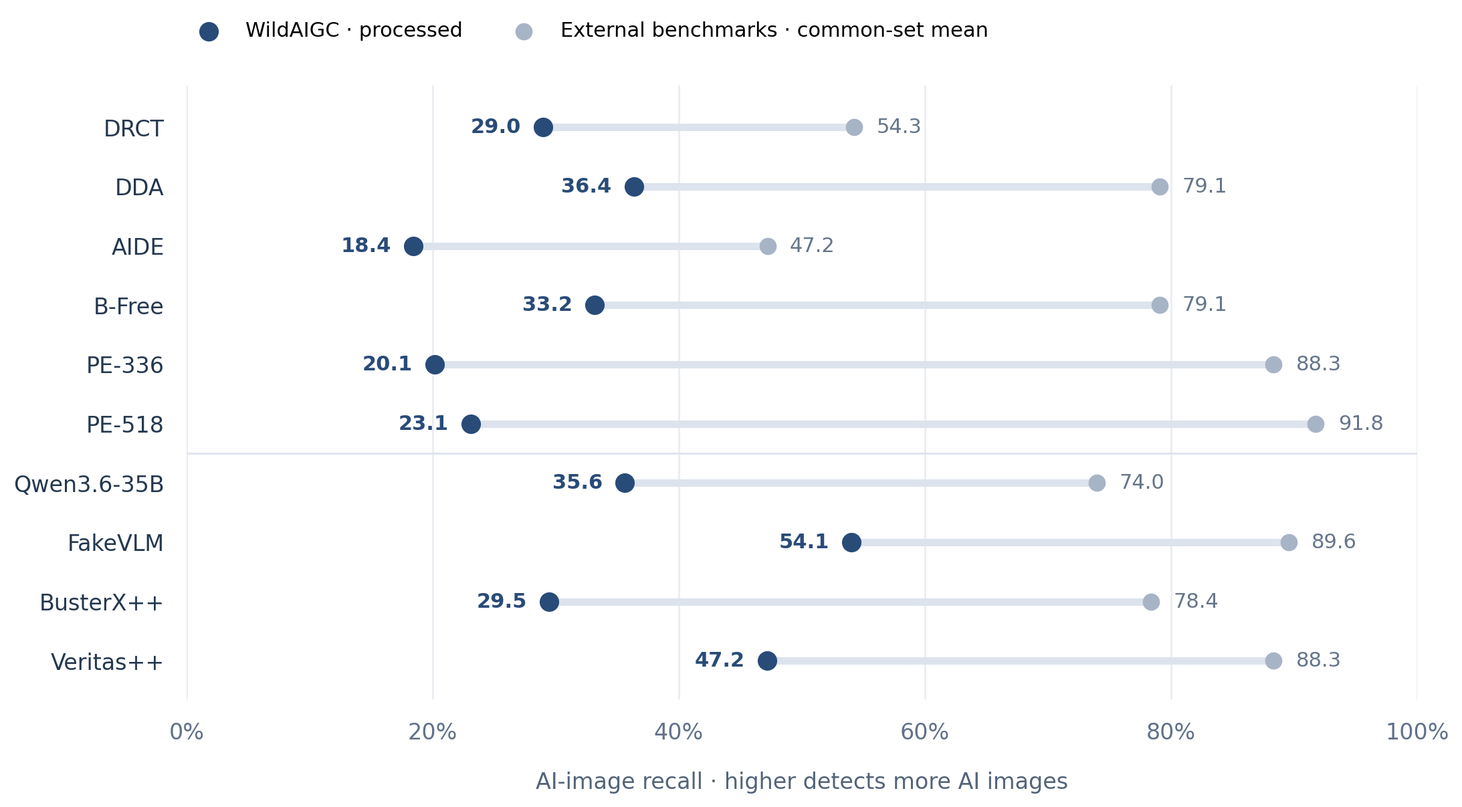
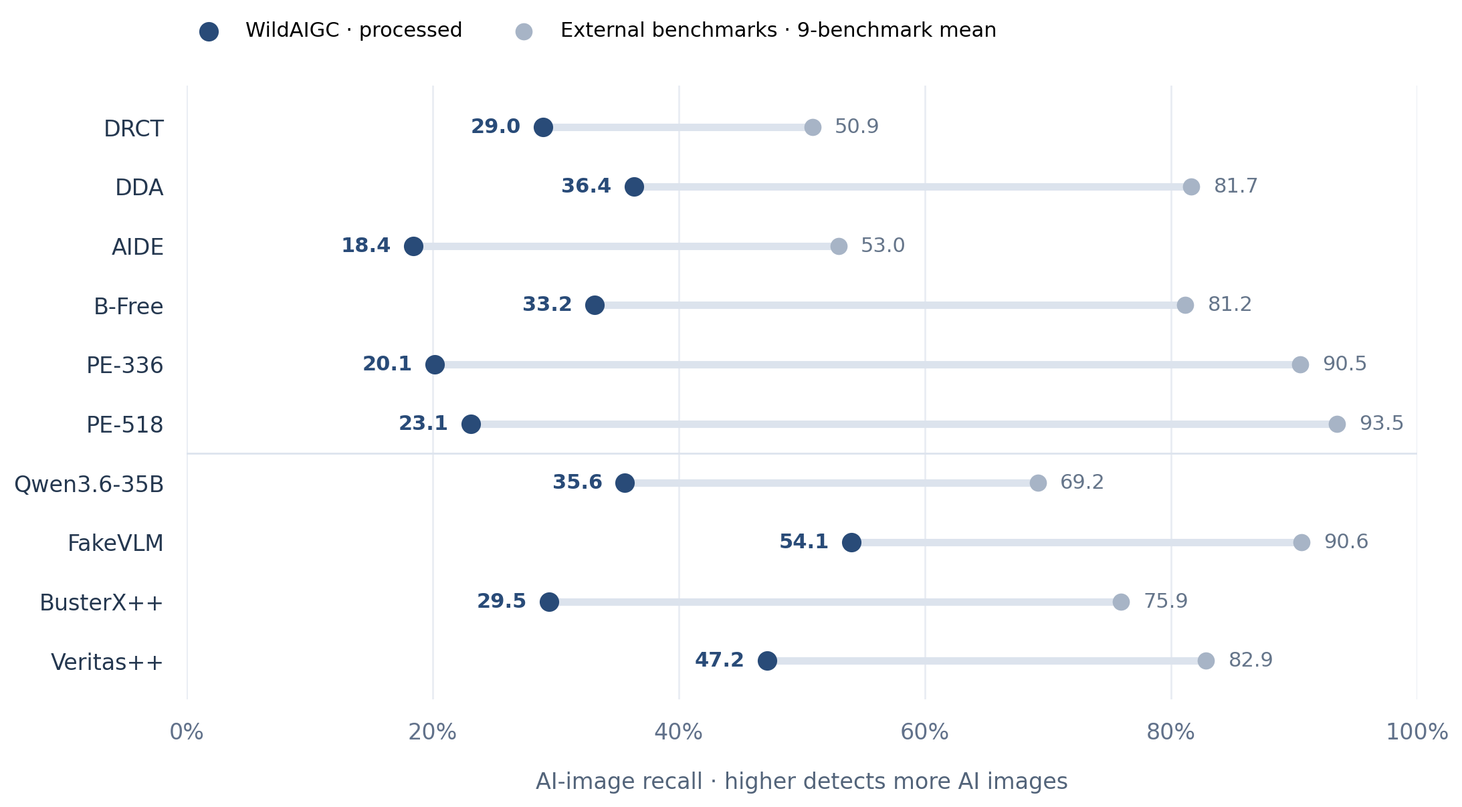
Complete synthbuster and UnivFD results and refresh nine-benchmark comparisons

diff --git a/index.html b/index.html
@@ -2,5 +2,5 @@
 <html lang="en"><head><meta charset="utf-8"><meta name="viewport" content="width=device-width,initial-scale=1"><meta name="description" content="WildAIGC-Bench: 407 human-reviewed AI-generated and edited images from real-world online circulation, with evidence-linked metadata, raw and cropped versions, and detector evaluations."><meta name="theme-color" content="#344b70"><title>WildAIGC-Bench · A Hard In-the-Wild AIGC Detection Benchmark</title><link rel="stylesheet" href="./style.css?v=20261013f"><script src="./app.js?v=20261013f" defer></script></head><body>
 <a class="skip-link" href="#overview">Skip to content</a>
 <header class="nav"><a class="brand" href="#top"><span class="brand-mark" aria-hidden="true">W<span>AI</span></span>WildAIGC-Bench</a><nav aria-label="Main navigation"><a href="#dataset">Examples</a><a href="#evaluation">Results</a><a href="#construction">Construction</a><a href="#statistics">Statistics</a><a class="nav-resource" href="#resources">Resources ↗</a></nav></header>
-<main id="top"><section class="hero"><div class="eyebrow"><span class="status-dot"></span> VERSION 1.0 · 407 HUMAN-REVIEWED IMAGES</div><h1>WildAIGC-Bench</h1><p class="hero-subtitle">An evidence-linked benchmark of AI-generated and edited images<br>documented in real online circulation.</p><p class="hero-copy">407 photographic-looking AI images collected from real online circulation. Reviewed by two people, with source evidence and paired raw / processed versions.</p><div class="actions"><a class="button primary" href="https://huggingface.co/datasets/yuzj1997yzj/WildAIGC-Bench" target="_blank" rel="noopener noreferrer">Dataset on Hugging Face ↗</a><a class="button" href="https://github.com/YuZijian/WildAIGC-Bench" target="_blank" rel="noopener noreferrer">GitHub ↗</a><button class="button disabled" disabled>Technical report <span>Coming soon</span></button></div><p class="release-status">Dataset publicly available · Technical report in preparation</p></section><section id="overview" class="section overview concise-overview"><div class="benchmark-highlights"><article><span class="highlight-index">REAL CIRCULATION</span><h3>Collected where images spread.</h3><p>News events and social-media claims, with source links for human verification.</p></article><article><span class="highlight-index">HUMAN CONSENSUS</span><h3>Two reviewers, every image.</h3><p>Evidence-based inclusion, without consulting general-purpose detector predictions.</p></article><article><span class="highlight-index">PAIRED VERSIONS</span><h3>Raw and processed.</h3><p>Acquired files and target-region crops. No resizing; unchanged images remain identical.</p></article></div></section><section class="section" id="dataset"><div class="section-label">01 / EXAMPLES</div><div class="section-heading"><h2>Real examples from online circulation.</h2><p>Processed examples from the collection. Detectors receive images alone; source links support human verification.</p></div><div class="gallery-toolbar"><p>Six illustrative examples · processed images · click to enlarge</p></div><div class="sample-grid"><article class="sample" data-sample="img_0fe24cc6e96245b8"><button class="sample-open" data-open="img_0fe24cc6e96245b8" aria-label="View Song Yuqi retail poster in full size"><img src="./assets/img_0fe24cc6e96245b8-processed.png" alt="Human-labeled AIGC sample: Song Yuqi retail poster" loading="lazy"><span class="zoom-hint">View larger ↗</span></button><div class="sample-copy"><span class="tag">Poster / local-edit claim</span><h3>Song Yuqi retail poster</h3><div class="sample-footer"><a href="https://www.4anet.com/p/01m4csjyqm986pe0gzfwxsfa9d" target="_blank" rel="noopener noreferrer">Source &amp; context ↗</a><span>0fe24cc6</span></div></div></article><article class="sample" data-sample="img_1b3026fd893bf218"><button class="sample-open" data-open="img_1b3026fd893bf218" aria-label="View Courier parcels and a television box in full size"><img src="./assets/img_1b3026fd893bf218-raw.jpg" alt="Human-labeled AIGC sample: Courier parcels and a television box" loading="lazy"><span class="zoom-hint">View larger ↗</span></button><div class="sample-copy"><span class="tag">Everyday scene</span><h3>Courier parcels and a television box</h3><div class="sample-footer"><a href="https://www.creativebloq.com/ai/ai-art/can-you-spot-all-the-clues-that-prove-this-ai-photo-isnt-real" target="_blank" rel="noopener noreferrer">Source &amp; context ↗</a><span>1b3026fd</span></div></div></article><article class="sample" data-sample="img_2bb3885c6b59817a"><button class="sample-open" data-open="img_2bb3885c6b59817a" aria-label="View A locally edited football spectator in full size"><img src="./assets/img_2bb3885c6b59817a-raw.jpg" alt="Human-labeled AIGC sample: A locally edited football spectator" loading="lazy"><span class="zoom-hint">View larger ↗</span></button><div class="sample-copy"><span class="tag">Face replacement</span><h3>A locally edited football spectator</h3><div class="sample-footer"><a href="https://leadstories.com/hoax-alert/2026/06/fact-check-image-altered-with-openai-tools-made-german-soccer-fan-in-the-stands-look-like-adolf-hitler.html" target="_blank" rel="noopener noreferrer">Source &amp; context ↗</a><span>2bb3885c</span></div></div></article><article class="sample" data-sample="img_6cfd077cd16360a7"><button class="sample-open" data-open="img_6cfd077cd16360a7" aria-label="View A fabricated Ronaldo wedding scene in full size"><img src="./assets/img_6cfd077cd16360a7-raw.jpg" alt="Human-labeled AIGC sample: A fabricated Ronaldo wedding scene" loading="lazy"><span class="zoom-hint">View larger ↗</span></button><div class="sample-copy"><span class="tag">Celebrity event</span><h3>A fabricated Ronaldo wedding scene</h3><div class="sample-footer"><a href="https://crhoy.com/entretenimiento/no-caiga-fotos-que-circulan-de-la-boda-de-cristiano-y-georgina-son-ia/" target="_blank" rel="noopener noreferrer">Source &amp; context ↗</a><span>6cfd077c</span></div></div></article><article class="sample" data-sample="img_2662f72eae79741a"><button class="sample-open" data-open="img_2662f72eae79741a" aria-label="View Kenyan recruits in a slogan formation in full size"><img src="./assets/img_2662f72eae79741a-raw.jpg" alt="Human-labeled AIGC sample: Kenyan recruits in a slogan formation" loading="lazy"><span class="zoom-hint">View larger ↗</span></button><div class="sample-copy"><span class="tag">Public-event claim</span><h3>Kenyan recruits in a slogan formation</h3><div class="sample-footer"><a href="https://factcheck.afp.com/doc.afp.com.C79679F" target="_blank" rel="noopener noreferrer">Source &amp; context ↗</a><span>2662f72e</span></div></div></article><article class="sample" data-sample="img_eef641f81db6498b"><button class="sample-open" data-open="img_eef641f81db6498b" aria-label="View A purported Beijing drone collection queue in full size"><img src="./assets/img_eef641f81db6498b-raw.jpg" alt="Human-labeled AIGC sample: A purported Beijing drone collection queue" loading="lazy"><span class="zoom-hint">View larger ↗</span></button><div class="sample-copy"><span class="tag">Urban scene</span><h3>A purported Beijing drone collection queue</h3><div class="sample-footer"><a href="https://factcheck.afp.com/doc.afp.com.C98N6CQ" target="_blank" rel="noopener noreferrer">Source &amp; context ↗</a><span>eef641f8</span></div></div></article></div><p class="caption">Both versions are available in the large-image viewer. Five of these examples are unchanged originals; raw and processed are identical. The retail poster has a manually cropped processed version. Labels reflect human release decisions; source evidence and its limitations remain documented.</p><div class="version-grid"><article class="version raw"><span class="tag">RAW</span><h3>The acquired online file.</h3><p>Original collected bytes, including any existing comments, platform interfaces, identifiers, captions or generation marks. An acquired online file is not necessarily the generator’s earliest output.</p></article><article class="version processed"><span class="tag">PROCESSED</span><h3>The region under examination.</h3><p>Human-selected rectangular crops focus on the target image and remove surrounding comments, generation watermarks, platform identifiers or other cues where cropping permits. No inpainting, enhancement or resizing.</p></article></div><div class="inline-note"><strong>All 407 images were manually checked for crop suitability.</strong> Target regions were cropped where needed; otherwise the original image was retained. Crops are pixel-exact regions from raw, saved losslessly. Uncropped raw and processed files are byte-identical. Some cues can remain; processed does not mean completely free of leakage.</div></section><section class="section" id="evaluation"><div class="section-label">02 / RESULTS</div><div class="section-heading"><h2>A revealing test for today’s detectors.</h2><p>Among the 10 evaluated configurations, the highest processed recall is <strong>54.05%</strong>. <strong>30 images</strong> are missed by all ten.</p></div><p class="small-note">Results reflect each model’s evaluated configuration and decision rule. Higher recall alone does not imply better overall detection performance; see the <a href="https://github.com/YuZijian/WildAIGC-Bench/blob/main/docs/detailed-results.md">external real-image FPR results</a>.</p><figure class="comparison-figure"><img src="./assets/recall_overview.svg" width="1260" height="620" alt="Per-method AI-image recall comparing the same seven external benchmarks’ mean with WildAIGC processed; all ten methods have lower recall on WildAIGC." loading="lazy"><figcaption>Same fake-class recall metric. External means use the same seven benchmarks for every method; these are different test distributions, not a causal estimate of propagation damage.</figcaption></figure><div class="results-heading"><h3>WildAIGC-Bench · 407 AI images</h3></div><div class="table-scroll" tabindex="0"><table id="wildTable"><thead><tr><th scope="col">Method</th><th scope="col">Raw Recall</th><th scope="col">Processed Recall</th></tr></thead><tbody><tr class="method-group-row"><th colspan="3" scope="rowgroup"><span class="method-group-label">Classification models</span></th></tr><tr><th scope="row">DRCT</th><td>0.2948</td><td>0.2899</td></tr><tr><th scope="row">DDA</th><td>0.3538</td><td>0.3636</td></tr><tr><th scope="row">AIDE</th><td>0.1450</td><td>0.1843</td></tr><tr><th scope="row">B-Free</th><td>0.3366</td><td>0.3317</td></tr><tr><th scope="row">PE-336</th><td>0.1941</td><td>0.2015</td></tr><tr><th scope="row">PE-518</th><td>0.2236</td><td>0.2310</td></tr><tr class="method-group-row"><th colspan="3" scope="rowgroup"><span class="method-group-label">Multimodal large language models</span></th></tr><tr><th scope="row">Qwen3.6-35B</th><td>0.3808</td><td>0.3563</td></tr><tr><th scope="row">FakeVLM</th><td>0.5283</td><td>0.5405</td></tr><tr><th scope="row">BusterX++</th><td>0.2973</td><td>0.2948</td></tr><tr><th scope="row">Veritas++</th><td>0.4644</td><td>0.4717</td></tr></tbody></table></div><p class="small-note">Recall is the fraction of AI images detected; unknowns count as misses. This positive-only set does not measure real-image false positives.</p><p class="small-note"><strong>Our PE baselines:</strong> PE-Core-Large (Perception Encoder) + classification head, trained by our team at 336 × 336 and 518 × 518 input resolution. Details will appear in the technical report.</p><details class="supplement"><summary>Explore cross-benchmark recall</summary><div class="table-scroll" tabindex="0"><table id="crossTable"><thead><tr class="benchmark-groups"><th scope="col" rowspan="2" class="method-heading">Method</th><th scope="colgroup" colspan="3" class="benchmark-group">Standard benchmarks</th><th scope="colgroup" colspan="6" class="benchmark-group group-start">In-the-Wild benchmarks</th><th scope="colgroup" colspan="1" class="benchmark-group group-start own-benchmark">WildAIGC<br><span>In-the-Wild · ours</span></th><th scope="col" rowspan="2" class="macro-column">Common-set mean<br><span>7 benchmarks ↑</span></th></tr><tr><th scope="col">EvalGen</th><th scope="col">synthbuster</th><th scope="col">UnivFD</th><th class="group-start" scope="col">AIGIBench</th><th scope="col">Chameleon</th><th scope="col">SynthWildx</th><th scope="col">WildRF</th><th scope="col">RRDataset</th><th scope="col">ITW-SM</th><th class="group-start own-benchmark" scope="col">WildAIGC<br>processed</th></tr></thead><tbody><tr class="method-group-row"><th colspan="12" scope="rowgroup"><span class="method-group-label">Classification models</span></th></tr><tr><th scope="row">DRCT</th><td>0.5093</td><td>0.5593</td><td>0.2196</td><td>0.5650</td><td>0.5818</td><td>0.5975</td><td>0.5838</td><td>0.3627</td><td>0.5982</td><td>0.2899</td><td class="macro-column">0.5426</td></tr><tr><th scope="row">DDA</th><td>0.9685</td><td>0.9757</td><td>0.8359</td><td>0.7445</td><td>0.7078</td><td>0.9291</td><td>0.8724</td><td>0.4700</td><td>0.8454</td><td>0.3636</td><td class="macro-column">0.7911</td></tr><tr><th scope="row">AIDE</th><td>0.5626</td><td>0.6527</td><td>0.8101</td><td>0.7090</td><td>0.3398</td><td>0.4874</td><td>0.5514</td><td>0.2238</td><td>0.4308</td><td>0.1843</td><td class="macro-column">0.4721</td></tr><tr><th scope="row">B-Free</th><td>0.9128</td><td>0.9423</td><td>0.8266</td><td>0.7189</td><td>0.6201</td><td>0.9852</td><td>0.9319</td><td>0.4786</td><td>0.8886</td><td>0.3317</td><td class="macro-column">0.7909</td></tr><tr><th scope="row">PE-336</th><td>0.9996</td><td>0.9653</td><td>0.9945</td><td>0.9700</td><td>0.7606</td><td>0.9062</td><td>0.9654</td><td>0.7797</td><td>0.8028</td><td>0.2015</td><td class="macro-column">0.8835</td></tr><tr><th scope="row">PE-518</th><td>0.9997</td><td>0.9973</td><td>0.9942</td><td>0.9609</td><td>0.8216</td><td>0.9468</td><td>0.9881</td><td>0.8229</td><td>0.8840</td><td>0.2310</td><td class="macro-column">0.9177</td></tr><tr class="method-group-row"><th colspan="12" scope="rowgroup"><span class="method-group-label">Multimodal large language models</span></th></tr><tr><th scope="row">Qwen3.6-35B <sup>†</sup></th><td>0.8775</td><td>0.5157</td><td>0.5330</td><td>0.4605</td><td>0.5769</td><td>0.8656</td><td>0.9157</td><td>0.5510</td><td>0.9306</td><td>0.3563</td><td class="macro-column">0.7397</td></tr><tr><th scope="row">FakeVLM <sup>†</sup></th><td>0.9900</td><td>0.9587</td><td>0.9270</td><td>0.9409</td><td>0.9953</td><td>0.9490</td><td>0.9276</td><td>0.5870</td><td>0.8810</td><td>0.5405</td><td class="macro-column">0.8958</td></tr><tr><th scope="row">BusterX++ <sup>†</sup></th><td>0.9290</td><td></td><td></td><td>0.5465</td><td>0.6142</td><td>0.9313</td><td>0.9589</td><td>0.5640</td><td>0.9422</td><td>0.2948</td><td class="macro-column">0.7837</td></tr><tr><th scope="row">Veritas++ <sup>†</sup></th><td>0.9890</td><td></td><td></td><td>0.6977</td><td>0.9324</td><td>0.9321</td><td>0.9741</td><td>0.7050</td><td>0.9540</td><td>0.4717</td><td class="macro-column">0.8835</td></tr></tbody></table></div><p>Common-set mean: EvalGen, AIGIBench, Chameleon, SynthWildx, WildRF, RRDataset and ITW-SM, equally weighted. † Fixed subsets on large dimensions; full evaluation on smaller dimensions. Blank cells indicate unavailable results.</p></details><p class="detail-link"><a href="https://github.com/YuZijian/WildAIGC-Bench/blob/main/docs/evaluation.md">Evaluation protocol ↗</a> <span>·</span> <a href="https://github.com/YuZijian/WildAIGC-Bench/blob/main/docs/detailed-results.md">Additional results and crop analysis ↗</a></p></section><section class="section" id="construction"><div class="section-label">03 / CONSTRUCTION</div><div class="section-heading"><h2>From online circulation<br>to a curated benchmark.</h2><p>Both reviewers examine every image using its context and AI evidence. Only consensus cases are retained; detector outputs are not used for selection.</p></div><figure class="pipeline-figure"><img src="./assets/construction_illustrated.png" width="2172" height="724" alt="Illustrated workflow: discover online events, trace evidence, deduplicate, human review, and freeze a release with raw and processed files." loading="lazy"></figure><p class="detail-link"><a href="https://github.com/YuZijian/WildAIGC-Bench/blob/main/docs/dataset.md">Read the construction protocol ↗</a></p></section><section class="section" id="statistics"><div class="section-label">04 / DATA PROFILE</div><div class="section-heading"><h2>A closer look at the collection.</h2><p>407 images from recorded news and fact-check sources. A curated challenge set, not a representative sample of the entire internet.</p></div><div class="compact-stats"><figure><img src="./assets/resolution_distribution.svg" alt="Raw and processed resolution distributions for 407 images" loading="lazy"><figcaption>Image dimensions · raw and processed.</figcaption></figure><figure><img src="./assets/source_website_distribution.svg" alt="Recorded source website distribution" loading="lazy"><figcaption>Recorded report websites, not necessarily original social platforms.</figcaption></figure></div></section><section class="section" id="resources"><div class="section-label">05 / RESOURCES</div><div class="section-heading"><h2>Put your detector to the test.</h2><p>Data, documentation and the forthcoming technical report.</p></div><div class="resource-grid"><article><span class="resource-type">DATASET</span><h3>WildAIGC-Bench v1.0</h3><p>407 images with raw / processed versions, labels and source references.</p><a href="https://huggingface.co/datasets/yuzj1997yzj/WildAIGC-Bench" target="_blank" rel="noopener noreferrer">Hugging Face ↗</a><small>Publicly available</small></article><article><span class="resource-type">TECHNICAL REPORT</span><h3>Construction &amp; evaluation</h3><p>Full methodology, detector settings and analysis.</p><span class="pending">In preparation</span></article><article><span class="resource-type">GITHUB</span><h3>Documentation &amp; results</h3><p>Usage instructions, evaluation protocol and additional results.</p><a href="https://github.com/YuZijian/WildAIGC-Bench" target="_blank" rel="noopener noreferrer">Explore the repository ↗</a></article></div><p class="small-note">Until the report is published, cite WildAIGC-Bench v1.0 and the exact dataset revision. Third-party image rights remain with their respective holders; see the dataset LICENSE. Corrections can be raised through repository issues.</p></section></main>
+<main id="top"><section class="hero"><div class="eyebrow"><span class="status-dot"></span> VERSION 1.0 · 407 HUMAN-REVIEWED IMAGES</div><h1>WildAIGC-Bench</h1><p class="hero-subtitle">An evidence-linked benchmark of AI-generated and edited images<br>documented in real online circulation.</p><p class="hero-copy">407 photographic-looking AI images collected from real online circulation. Reviewed by two people, with source evidence and paired raw / processed versions.</p><div class="actions"><a class="button primary" href="https://huggingface.co/datasets/yuzj1997yzj/WildAIGC-Bench" target="_blank" rel="noopener noreferrer">Dataset on Hugging Face ↗</a><a class="button" href="https://github.com/YuZijian/WildAIGC-Bench" target="_blank" rel="noopener noreferrer">GitHub ↗</a><button class="button disabled" disabled>Technical report <span>Coming soon</span></button></div><p class="release-status">Dataset publicly available · Technical report in preparation</p></section><section id="overview" class="section overview concise-overview"><div class="benchmark-highlights"><article><span class="highlight-index">REAL CIRCULATION</span><h3>Collected where images spread.</h3><p>News events and social-media claims, with source links for human verification.</p></article><article><span class="highlight-index">HUMAN CONSENSUS</span><h3>Two reviewers, every image.</h3><p>Evidence-based inclusion, without consulting general-purpose detector predictions.</p></article><article><span class="highlight-index">PAIRED VERSIONS</span><h3>Raw and processed.</h3><p>Acquired files and target-region crops. No resizing; unchanged images remain identical.</p></article></div></section><section class="section" id="dataset"><div class="section-label">01 / EXAMPLES</div><div class="section-heading"><h2>Real examples from online circulation.</h2><p>Processed examples from the collection. Detectors receive images alone; source links support human verification.</p></div><div class="gallery-toolbar"><p>Six illustrative examples · processed images · click to enlarge</p></div><div class="sample-grid"><article class="sample" data-sample="img_0fe24cc6e96245b8"><button class="sample-open" data-open="img_0fe24cc6e96245b8" aria-label="View Song Yuqi retail poster in full size"><img src="./assets/img_0fe24cc6e96245b8-processed.png" alt="Human-labeled AIGC sample: Song Yuqi retail poster" loading="lazy"><span class="zoom-hint">View larger ↗</span></button><div class="sample-copy"><span class="tag">Poster / local-edit claim</span><h3>Song Yuqi retail poster</h3><div class="sample-footer"><a href="https://www.4anet.com/p/01m4csjyqm986pe0gzfwxsfa9d" target="_blank" rel="noopener noreferrer">Source &amp; context ↗</a><span>0fe24cc6</span></div></div></article><article class="sample" data-sample="img_1b3026fd893bf218"><button class="sample-open" data-open="img_1b3026fd893bf218" aria-label="View Courier parcels and a television box in full size"><img src="./assets/img_1b3026fd893bf218-raw.jpg" alt="Human-labeled AIGC sample: Courier parcels and a television box" loading="lazy"><span class="zoom-hint">View larger ↗</span></button><div class="sample-copy"><span class="tag">Everyday scene</span><h3>Courier parcels and a television box</h3><div class="sample-footer"><a href="https://www.creativebloq.com/ai/ai-art/can-you-spot-all-the-clues-that-prove-this-ai-photo-isnt-real" target="_blank" rel="noopener noreferrer">Source &amp; context ↗</a><span>1b3026fd</span></div></div></article><article class="sample" data-sample="img_2bb3885c6b59817a"><button class="sample-open" data-open="img_2bb3885c6b59817a" aria-label="View A locally edited football spectator in full size"><img src="./assets/img_2bb3885c6b59817a-raw.jpg" alt="Human-labeled AIGC sample: A locally edited football spectator" loading="lazy"><span class="zoom-hint">View larger ↗</span></button><div class="sample-copy"><span class="tag">Face replacement</span><h3>A locally edited football spectator</h3><div class="sample-footer"><a href="https://leadstories.com/hoax-alert/2026/06/fact-check-image-altered-with-openai-tools-made-german-soccer-fan-in-the-stands-look-like-adolf-hitler.html" target="_blank" rel="noopener noreferrer">Source &amp; context ↗</a><span>2bb3885c</span></div></div></article><article class="sample" data-sample="img_6cfd077cd16360a7"><button class="sample-open" data-open="img_6cfd077cd16360a7" aria-label="View A fabricated Ronaldo wedding scene in full size"><img src="./assets/img_6cfd077cd16360a7-raw.jpg" alt="Human-labeled AIGC sample: A fabricated Ronaldo wedding scene" loading="lazy"><span class="zoom-hint">View larger ↗</span></button><div class="sample-copy"><span class="tag">Celebrity event</span><h3>A fabricated Ronaldo wedding scene</h3><div class="sample-footer"><a href="https://crhoy.com/entretenimiento/no-caiga-fotos-que-circulan-de-la-boda-de-cristiano-y-georgina-son-ia/" target="_blank" rel="noopener noreferrer">Source &amp; context ↗</a><span>6cfd077c</span></div></div></article><article class="sample" data-sample="img_2662f72eae79741a"><button class="sample-open" data-open="img_2662f72eae79741a" aria-label="View Kenyan recruits in a slogan formation in full size"><img src="./assets/img_2662f72eae79741a-raw.jpg" alt="Human-labeled AIGC sample: Kenyan recruits in a slogan formation" loading="lazy"><span class="zoom-hint">View larger ↗</span></button><div class="sample-copy"><span class="tag">Public-event claim</span><h3>Kenyan recruits in a slogan formation</h3><div class="sample-footer"><a href="https://factcheck.afp.com/doc.afp.com.C79679F" target="_blank" rel="noopener noreferrer">Source &amp; context ↗</a><span>2662f72e</span></div></div></article><article class="sample" data-sample="img_eef641f81db6498b"><button class="sample-open" data-open="img_eef641f81db6498b" aria-label="View A purported Beijing drone collection queue in full size"><img src="./assets/img_eef641f81db6498b-raw.jpg" alt="Human-labeled AIGC sample: A purported Beijing drone collection queue" loading="lazy"><span class="zoom-hint">View larger ↗</span></button><div class="sample-copy"><span class="tag">Urban scene</span><h3>A purported Beijing drone collection queue</h3><div class="sample-footer"><a href="https://factcheck.afp.com/doc.afp.com.C98N6CQ" target="_blank" rel="noopener noreferrer">Source &amp; context ↗</a><span>eef641f8</span></div></div></article></div><p class="caption">Both versions are available in the large-image viewer. Five of these examples are unchanged originals; raw and processed are identical. The retail poster has a manually cropped processed version. Labels reflect human release decisions; source evidence and its limitations remain documented.</p><div class="version-grid"><article class="version raw"><span class="tag">RAW</span><h3>The acquired online file.</h3><p>Original collected bytes, including any existing comments, platform interfaces, identifiers, captions or generation marks. An acquired online file is not necessarily the generator’s earliest output.</p></article><article class="version processed"><span class="tag">PROCESSED</span><h3>The region under examination.</h3><p>Human-selected rectangular crops focus on the target image and remove surrounding comments, generation watermarks, platform identifiers or other cues where cropping permits. No inpainting, enhancement or resizing.</p></article></div><div class="inline-note"><strong>All 407 images were manually checked for crop suitability.</strong> Target regions were cropped where needed; otherwise the original image was retained. Crops are pixel-exact regions from raw, saved losslessly. Uncropped raw and processed files are byte-identical. Some cues can remain; processed does not mean completely free of leakage.</div></section><section class="section" id="evaluation"><div class="section-label">02 / RESULTS</div><div class="section-heading"><h2>A revealing test for today’s detectors.</h2><p>Among the 10 evaluated configurations, the highest processed recall is <strong>54.05%</strong>. <strong>30 images</strong> are missed by all ten.</p></div><p class="small-note">Results reflect each model’s evaluated configuration and decision rule. Higher recall alone does not imply better overall detection performance; see the <a href="https://github.com/YuZijian/WildAIGC-Bench/blob/main/docs/detailed-results.md">external real-image FPR results</a>.</p><figure class="comparison-figure"><img src="./assets/recall_overview.svg" width="1260" height="620" alt="Per-method AI-image recall comparing the same nine external benchmarks’ mean with WildAIGC processed; all ten methods have lower recall on WildAIGC." loading="lazy"><figcaption>Same fake-class recall metric. External means use the same nine benchmarks for every method; these are different test distributions, not a causal estimate of propagation damage.</figcaption></figure><div class="results-heading"><h3>WildAIGC-Bench · 407 AI images</h3></div><div class="table-scroll" tabindex="0"><table id="wildTable"><thead><tr><th scope="col">Method</th><th scope="col">Raw Recall</th><th scope="col">Processed Recall</th></tr></thead><tbody><tr class="method-group-row"><th colspan="3" scope="rowgroup"><span class="method-group-label">Classification models</span></th></tr><tr><th scope="row">DRCT</th><td>0.2948</td><td>0.2899</td></tr><tr><th scope="row">DDA</th><td>0.3538</td><td>0.3636</td></tr><tr><th scope="row">AIDE</th><td>0.1450</td><td>0.1843</td></tr><tr><th scope="row">B-Free</th><td>0.3366</td><td>0.3317</td></tr><tr><th scope="row">PE-336</th><td>0.1941</td><td>0.2015</td></tr><tr><th scope="row">PE-518</th><td>0.2236</td><td>0.2310</td></tr><tr class="method-group-row"><th colspan="3" scope="rowgroup"><span class="method-group-label">Multimodal large language models</span></th></tr><tr><th scope="row">Qwen3.6-35B</th><td>0.3808</td><td>0.3563</td></tr><tr><th scope="row">FakeVLM</th><td>0.5283</td><td>0.5405</td></tr><tr><th scope="row">BusterX++</th><td>0.2973</td><td>0.2948</td></tr><tr><th scope="row">Veritas++</th><td>0.4644</td><td>0.4717</td></tr></tbody></table></div><p class="small-note">Recall is the fraction of AI images detected; unknowns count as misses. This positive-only set does not measure real-image false positives.</p><p class="small-note"><strong>Our PE baselines:</strong> PE-Core-Large (Perception Encoder) + classification head, trained by our team at 336 × 336 and 518 × 518 input resolution. Details will appear in the technical report.</p><details class="supplement"><summary>Explore cross-benchmark recall</summary><div class="table-scroll" tabindex="0"><table id="crossTable"><thead><tr class="benchmark-groups"><th class="method-heading" rowspan="2" scope="col">Method</th><th class="benchmark-group" colspan="3" scope="colgroup">Standard benchmarks</th><th class="benchmark-group group-start" colspan="6" scope="colgroup">In-the-Wild benchmarks</th><th class="benchmark-group group-start own-benchmark" colspan="1" scope="colgroup">WildAIGC<br/><span>In-the-Wild · ours</span></th><th class="macro-column" rowspan="2" scope="col">Common-set mean<br/><span>9 benchmarks ↑</span></th></tr><tr><th scope="col">EvalGen</th><th scope="col">synthbuster</th><th scope="col">UnivFD</th><th class="group-start" scope="col">AIGIBench</th><th scope="col">Chameleon</th><th scope="col">SynthWildx</th><th scope="col">WildRF</th><th scope="col">RRDataset</th><th scope="col">ITW-SM</th><th class="group-start own-benchmark" scope="col">WildAIGC<br/>processed</th></tr></thead><tbody><tr class="method-group-row"><th colspan="12" scope="rowgroup"><span class="method-group-label">Classification models</span></th></tr><tr><th scope="row">DRCT</th><td>0.5093</td><td>0.5593</td><td>0.2196</td><td>0.5650</td><td>0.5818</td><td>0.5975</td><td>0.5838</td><td>0.3627</td><td>0.5982</td><td>0.2899</td><td class="macro-column">0.5086</td></tr><tr><th scope="row">DDA</th><td>0.9685</td><td>0.9757</td><td>0.8359</td><td>0.7445</td><td>0.7078</td><td>0.9291</td><td>0.8724</td><td>0.4700</td><td>0.8454</td><td>0.3636</td><td class="macro-column">0.8166</td></tr><tr><th scope="row">AIDE</th><td>0.5626</td><td>0.6527</td><td>0.8101</td><td>0.7090</td><td>0.3398</td><td>0.4874</td><td>0.5514</td><td>0.2238</td><td>0.4308</td><td>0.1843</td><td class="macro-column">0.5297</td></tr><tr><th scope="row">B-Free</th><td>0.9128</td><td>0.9423</td><td>0.8266</td><td>0.7189</td><td>0.6201</td><td>0.9852</td><td>0.9319</td><td>0.4786</td><td>0.8886</td><td>0.3317</td><td class="macro-column">0.8117</td></tr><tr><th scope="row">PE-336</th><td>0.9996</td><td>0.9653</td><td>0.9945</td><td>0.9700</td><td>0.7606</td><td>0.9062</td><td>0.9654</td><td>0.7797</td><td>0.8028</td><td>0.2015</td><td class="macro-column">0.9049</td></tr><tr><th scope="row">PE-518</th><td>0.9997</td><td>0.9973</td><td>0.9942</td><td>0.9609</td><td>0.8216</td><td>0.9468</td><td>0.9881</td><td>0.8229</td><td>0.8840</td><td>0.2310</td><td class="macro-column">0.9351</td></tr><tr class="method-group-row"><th colspan="12" scope="rowgroup"><span class="method-group-label">Multimodal large language models</span></th></tr><tr><th scope="row">Qwen3.6-35B <sup>†</sup></th><td>0.8775</td><td>0.5157</td><td>0.5330</td><td>0.4605</td><td>0.5769</td><td>0.8656</td><td>0.9157</td><td>0.5510</td><td>0.9306</td><td>0.3563</td><td class="macro-column">0.6918</td></tr><tr><th scope="row">FakeVLM <sup>†</sup></th><td>0.9900</td><td>0.9587</td><td>0.9270</td><td>0.9409</td><td>0.9953</td><td>0.9490</td><td>0.9276</td><td>0.5870</td><td>0.8810</td><td>0.5405</td><td class="macro-column">0.9063</td></tr><tr><th scope="row">BusterX++ <sup>†</sup></th><td>0.9290</td><td>0.8103</td><td>0.5370</td><td>0.5465</td><td>0.6142</td><td>0.9313</td><td>0.9589</td><td>0.5640</td><td>0.9422</td><td>0.2948</td><td class="macro-column">0.7593</td></tr><tr><th scope="row">Veritas++ <sup>†</sup></th><td>0.9890</td><td>0.8300</td><td>0.4430</td><td>0.6977</td><td>0.9324</td><td>0.9321</td><td>0.9741</td><td>0.7050</td><td>0.9540</td><td>0.4717</td><td class="macro-column">0.8286</td></tr></tbody></table></div><p>Common-set mean: EvalGen, synthbuster, UnivFD, AIGIBench, Chameleon, SynthWildx, WildRF, RRDataset and ITW-SM, equally weighted. † Fixed subsets on large dimensions; full evaluation on smaller dimensions. Blank cells indicate unavailable results.</p></details><p class="detail-link"><a href="https://github.com/YuZijian/WildAIGC-Bench/blob/main/docs/evaluation.md">Evaluation protocol ↗</a> <span>·</span> <a href="https://github.com/YuZijian/WildAIGC-Bench/blob/main/docs/detailed-results.md">Additional results and crop analysis ↗</a></p></section><section class="section" id="construction"><div class="section-label">03 / CONSTRUCTION</div><div class="section-heading"><h2>From online circulation<br>to a curated benchmark.</h2><p>Both reviewers examine every image using its context and AI evidence. Only consensus cases are retained; detector outputs are not used for selection.</p></div><figure class="pipeline-figure"><img src="./assets/construction_illustrated.png" width="2172" height="724" alt="Illustrated workflow: discover online events, trace evidence, deduplicate, human review, and freeze a release with raw and processed files." loading="lazy"></figure><p class="detail-link"><a href="https://github.com/YuZijian/WildAIGC-Bench/blob/main/docs/dataset.md">Read the construction protocol ↗</a></p></section><section class="section" id="statistics"><div class="section-label">04 / DATA PROFILE</div><div class="section-heading"><h2>A closer look at the collection.</h2><p>407 images from recorded news and fact-check sources. A curated challenge set, not a representative sample of the entire internet.</p></div><div class="compact-stats"><figure><img src="./assets/resolution_distribution.svg" alt="Raw and processed resolution distributions for 407 images" loading="lazy"><figcaption>Image dimensions · raw and processed.</figcaption></figure><figure><img src="./assets/source_website_distribution.svg" alt="Recorded source website distribution" loading="lazy"><figcaption>Recorded report websites, not necessarily original social platforms.</figcaption></figure></div></section><section class="section" id="resources"><div class="section-label">05 / RESOURCES</div><div class="section-heading"><h2>Put your detector to the test.</h2><p>Data, documentation and the forthcoming technical report.</p></div><div class="resource-grid"><article><span class="resource-type">DATASET</span><h3>WildAIGC-Bench v1.0</h3><p>407 images with raw / processed versions, labels and source references.</p><a href="https://huggingface.co/datasets/yuzj1997yzj/WildAIGC-Bench" target="_blank" rel="noopener noreferrer">Hugging Face ↗</a><small>Publicly available</small></article><article><span class="resource-type">TECHNICAL REPORT</span><h3>Construction &amp; evaluation</h3><p>Full methodology, detector settings and analysis.</p><span class="pending">In preparation</span></article><article><span class="resource-type">GITHUB</span><h3>Documentation &amp; results</h3><p>Usage instructions, evaluation protocol and additional results.</p><a href="https://github.com/YuZijian/WildAIGC-Bench" target="_blank" rel="noopener noreferrer">Explore the repository ↗</a></article></div><p class="small-note">Until the report is published, cite WildAIGC-Bench v1.0 and the exact dataset revision. Third-party image rights remain with their respective holders; see the dataset LICENSE. Corrections can be raised through repository issues.</p></section></main>
 <footer><a class="brand" href="#top">WildAIGC-Bench</a><span>Real circulation. Human review. Traceable evaluation.</span><a href="#top">Back to top ↑</a></footer><dialog id="sampleDialog" aria-labelledby="dialogTitle"><div class="dialog-header"><div><span id="dialogId" class="dialog-id"></span><h2 id="dialogTitle"></h2></div><button id="closeDialog" class="dialog-close" aria-label="Close image viewer">×</button></div><div class="dialog-toolbar"><span id="dialogStatus"></span><a id="fullImageLink" target="_blank" rel="noopener noreferrer">Open full-resolution file ↗</a></div><div class="dialog-image-wrap"><img id="dialogImage" alt=""></div><div class="dialog-bottom"><span id="dialogDimensions"></span><a id="dialogSource" target="_blank" rel="noopener noreferrer">Source &amp; context ↗</a></div></dialog></body></html>

diff --git a/docs/detailed-results.md b/docs/detailed-results.md
@@ -35,47 +35,49 @@ Snapshot: 13 October 2026. All metrics retain the supplied protocol. [Evaluation
 
 ## Cross-benchmark recall
 
-|Method|EvalGen|synthbuster|UnivFD|AIGIBench|Chameleon|SynthWildx|WildRF|RRDataset|ITW-SM|WildAIGC processed|Common mean (7)|
+|Method|EvalGen|synthbuster|UnivFD|AIGIBench|Chameleon|SynthWildx|WildRF|RRDataset|ITW-SM|WildAIGC processed|Common mean (9)|
 |---|---:|---:|---:|---:|---:|---:|---:|---:|---:|---:|---:|
-|DRCT|0.5093|0.5593|0.2196|0.5650|0.5818|0.5975|0.5838|0.3627|0.5982|0.2899|0.5426|
-|DDA|0.9685|0.9757|0.8359|0.7445|0.7078|0.9291|0.8724|0.4700|0.8454|0.3636|0.7911|
-|AIDE|0.5626|0.6527|0.8101|0.7090|0.3398|0.4874|0.5514|0.2238|0.4308|0.1843|0.4721|
-|B-Free|0.9128|0.9423|0.8266|0.7189|0.6201|0.9852|0.9319|0.4786|0.8886|0.3317|0.7909|
-|PE-336|0.9996|0.9653|0.9945|0.9700|0.7606|0.9062|0.9654|0.7797|0.8028|0.2015|0.8835|
-|PE-518|0.9997|0.9973|0.9942|0.9609|0.8216|0.9468|0.9881|0.8229|0.8840|0.2310|0.9177|
-|Qwen3.6-35B †|0.8775|0.5157|0.5330|0.4605|0.5769|0.8656|0.9157|0.5510|0.9306|0.3563|0.7397|
-|FakeVLM †|0.9900|0.9587|0.9270|0.9409|0.9953|0.9490|0.9276|0.5870|0.8810|0.5405|0.8958|
-|BusterX++ †|0.9290|||0.5465|0.6142|0.9313|0.9589|0.5640|0.9422|0.2948|0.7837|
-|Veritas++ †|0.9890|||0.6977|0.9324|0.9321|0.9741|0.7050|0.9540|0.4717|0.8835|
+|DRCT|0.5093|0.5593|0.2196|0.5650|0.5818|0.5975|0.5838|0.3627|0.5982|0.2899|0.5086|
+|DDA|0.9685|0.9757|0.8359|0.7445|0.7078|0.9291|0.8724|0.4700|0.8454|0.3636|0.8166|
+|AIDE|0.5626|0.6527|0.8101|0.7090|0.3398|0.4874|0.5514|0.2238|0.4308|0.1843|0.5297|
+|B-Free|0.9128|0.9423|0.8266|0.7189|0.6201|0.9852|0.9319|0.4786|0.8886|0.3317|0.8117|
+|PE-336|0.9996|0.9653|0.9945|0.9700|0.7606|0.9062|0.9654|0.7797|0.8028|0.2015|0.9049|
+|PE-518|0.9997|0.9973|0.9942|0.9609|0.8216|0.9468|0.9881|0.8229|0.8840|0.2310|0.9351|
+|Qwen3.6-35B †|0.8775|0.5157|0.5330|0.4605|0.5769|0.8656|0.9157|0.5510|0.9306|0.3563|0.6918|
+|FakeVLM †|0.9900|0.9587|0.9270|0.9409|0.9953|0.9490|0.9276|0.5870|0.8810|0.5405|0.9063|
+|BusterX++ †|0.9290|0.8103|0.5370|0.5465|0.6142|0.9313|0.9589|0.5640|0.9422|0.2948|0.7593|
+|Veritas++ †|0.9890|0.8300|0.4430|0.6977|0.9324|0.9321|0.9741|0.7050|0.9540|0.4717|0.8286|
 
 ## External real-image FPR
 
-|Method|synthbuster|UnivFD|AIGIBench|Chameleon|SynthWildx|WildRF|RRDataset|ITW-SM|Common mean (6)|
+|Method|synthbuster|UnivFD|AIGIBench|Chameleon|SynthWildx|WildRF|RRDataset|ITW-SM|Common mean (8)|
 |---|---:|---:|---:|---:|---:|---:|---:|---:|---:|
-|DRCT|0.0340|0.1146|0.0462|0.2014|0.1171|0.2178|0.1545|0.1390|0.1460|
-|DDA|0.1330|0.1412|0.0447|0.0597|0.1148|0.1177|0.0467|0.1008|0.0807|
-|AIDE|0.0650|0.2275|0.0865|0.0829|0.1288|0.1947|0.0749|0.1840|0.1253|
-|B-Free|0.0030|0.0926|0.0224|0.0883|0.0726|0.0759|0.0402|0.0940|0.0656|
-|PE-336|0.0010|0.1067|0.0979|0.0069|0.0211|0.0077|0.0084|0.1198|0.0436|
-|PE-518|0.0010|0.0503|0.0636|0.0031|0.0304|0.0011|0.0091|0.0576|0.0275|
-|Qwen3.6-35B †|0.0730|0.3660|0.0629|0.1156|0.0679|0.0363|0.0750|0.0746|0.0721|
-|FakeVLM †|0.7290|0.4200|0.3207|0.5044|0.4731|0.4444|0.2760|0.4564|0.4125|
-|BusterX++ †|||0.0929|0.1550|0.1265|0.0693|0.1500|0.1232|0.1195|
-|Veritas++ †|||0.1379|0.2058|0.2295|0.1793|0.1800|0.3150|0.2079|
+|DRCT|0.0340|0.1146|0.0462|0.2014|0.1171|0.2178|0.1545|0.1390|0.1281|
+|DDA|0.1330|0.1412|0.0447|0.0597|0.1148|0.1177|0.0467|0.1008|0.0948|
+|AIDE|0.0650|0.2275|0.0865|0.0829|0.1288|0.1947|0.0749|0.1840|0.1305|
+|B-Free|0.0030|0.0926|0.0224|0.0883|0.0726|0.0759|0.0402|0.0940|0.0611|
+|PE-336|0.0010|0.1067|0.0979|0.0069|0.0211|0.0077|0.0084|0.1198|0.0462|
+|PE-518|0.0010|0.0503|0.0636|0.0031|0.0304|0.0011|0.0091|0.0576|0.0270|
+|Qwen3.6-35B †|0.0730|0.3660|0.0629|0.1156|0.0679|0.0363|0.0750|0.0746|0.1089|
+|FakeVLM †|0.7290|0.4200|0.3207|0.5044|0.4731|0.4444|0.2760|0.4564|0.4530|
+|BusterX++ †|0.0050|0.3370|0.0929|0.1550|0.1265|0.0693|0.1500|0.1232|0.1324|
+|Veritas++ †|0.1730|0.1570|0.1379|0.2058|0.2295|0.1793|0.1800|0.3150|0.1972|
 
 ## Cross-benchmark accuracy
 
-|Method|EvalGen|synthbuster|UnivFD|AIGIBench|Chameleon|SynthWildx|WildRF|RRDataset|ITW-SM|Common mean (7)|
+|Method|EvalGen|synthbuster|UnivFD|AIGIBench|Chameleon|SynthWildx|WildRF|RRDataset|ITW-SM|Common mean (9)|
 |---|---:|---:|---:|---:|---:|---:|---:|---:|---:|---:|
-|DRCT|0.5093|0.6610|0.5526|0.7595|0.7056|0.6659|0.6821|0.6040|0.7296|0.6651|
-|DDA|0.9685|0.9485|0.8473|0.8500|0.8405|0.9186|0.8773|0.7116|0.8723|0.8627|
-|AIDE|0.5626|0.7232|0.7913|0.8114|0.6694|0.5794|0.6772|0.5744|0.6234|0.6425|
-|B-Free|0.9128|0.9560|0.8670|0.8484|0.7866|0.9714|0.9280|0.7191|0.8973|0.8662|
-|PE-336|0.9996|0.9738|0.9439|0.9360|0.8933|0.9236|0.9787|0.8856|0.8415|0.9226|
-|PE-518|0.9997|0.9978|0.9719|0.9487|0.9217|0.9523|0.9935|0.9069|0.9132|0.9480|
-|Qwen3.6-35B †|0.8775|0.6185|0.5835|0.6990|0.7525|0.8815|0.9395|0.7380|0.9280|0.8309|
-|FakeVLM †|0.9900|0.7867|0.7535|0.8100|0.7100|0.8478|0.7432|0.6555|0.7123|0.7813|
-|BusterX++ †|0.9290|||0.7270|0.7460|0.9175|0.9449|0.7070|0.9095|0.8401|
-|Veritas++ †|0.9890|||0.7800|0.8535|0.8933|0.8980|0.7625|0.8195|0.8565|
+|DRCT|0.5093|0.6610|0.5526|0.7595|0.7056|0.6659|0.6821|0.6040|0.7296|0.6522|
+|DDA|0.9685|0.9485|0.8473|0.8500|0.8405|0.9186|0.8773|0.7116|0.8723|0.8705|
+|AIDE|0.5626|0.7232|0.7913|0.8114|0.6694|0.5794|0.6772|0.5744|0.6234|0.6680|
+|B-Free|0.9128|0.9560|0.8670|0.8484|0.7866|0.9714|0.9280|0.7191|0.8973|0.8763|
+|PE-336|0.9996|0.9738|0.9439|0.9360|0.8933|0.9236|0.9787|0.8856|0.8415|0.9307|
+|PE-518|0.9997|0.9978|0.9719|0.9487|0.9217|0.9523|0.9935|0.9069|0.9132|0.9562|
+|Qwen3.6-35B †|0.8775|0.6185|0.5835|0.6990|0.7525|0.8815|0.9395|0.7380|0.9280|0.7798|
+|FakeVLM †|0.9900|0.7865|0.7535|0.8100|0.7100|0.8478|0.7432|0.6555|0.7123|0.7788|
+|BusterX++ †|0.9290|0.8565|0.6000|0.7270|0.7460|0.9175|0.9449|0.7070|0.9095|0.8153|
+|Veritas++ †|0.9890|0.8293|0.6430|0.7800|0.8535|0.8933|0.8980|0.7625|0.8195|0.8298|
 
 Common means use identical shared coverage; see the evaluation protocol. Unknowns follow the recorded scoring policy. Paired changes do not isolate watermark removal from geometry, preprocessing or run variability.
+
+Supplement update: synthbuster (4,000 images) and UnivFD (2,000 fixed-subset images) now have complete BusterX++, FakeVLM and Veritas++ records. Their accuracy counts unknown outputs as incorrect. FakeVLM synthbuster changes from the supplied 0.7867 to 0.7865 under this rule (one real-image unknown was previously counted correct). Other historical aggregates retain their recorded policy; they are not claimed to be uniformly rescored. † Fixed subsets on larger dimensions; full evaluation on smaller dimensions.

diff --git a/docs/evaluation.md b/docs/evaluation.md
@@ -61,6 +61,10 @@ Optional future experiments: calibrated Recall@FPR using a separate real calibra
 
 ## Common-benchmark macro averages
 
-The Recall and Accuracy tables average EvalGen, AIGIBench, Chameleon, SynthWildx, WildRF, RRDataset and ITW-SM (seven benchmarks). The FPR table averages the same set excluding EvalGen (six), because the evaluated EvalGen collection has no real images. Each benchmark receives equal weight, irrespective of image count.
+Recall and Accuracy average all nine external benchmarks: EvalGen, synthbuster, UnivFD, AIGIBench, Chameleon, SynthWildx, WildRF, RRDataset and ITW-SM. FPR averages the eight with real images (excluding EvalGen). Each benchmark receives equal weight, regardless of sample count. WildAIGC remains a separate challenge score.
 
-Every displayed method uses this identical coverage. Synthbuster and UnivFD remain visible individually but are excluded from the means because two methods lack results. WildAIGC remains a separate challenge score and is excluded. If coverage expands, all means must be recomputed together. These means inherit supplied metric rounding and are descriptive; different domains and full-versus-sampled scopes remain relevant. Low FPR alone is not a good detector: predicting everything real gives zero FPR, so inspect Recall too.
+Coverage is identical for all ten methods. All means were recomputed after receiving the missing synthbuster and UnivFD predictions. The means are descriptive and retain the precision and scoring policy of their component metrics; full versus sampled evaluations and different test distributions remain relevant. Lower FPR alone does not establish a better detector.
+
+### Supplementary records
+
+BusterX++, FakeVLM and Veritas++ now have complete eight-benchmark shard records, verified against the fixed sample CSV indices. The new synthbuster and UnivFD results use 4,000 and 2,000 images respectively, with no missing or duplicate indices. Existing six-benchmark predictions are unchanged. Supplementary accuracy counts unknown outputs as incorrect; FakeVLM synthbuster is therefore 0.7865 rather than the earlier supplied 0.7867. Other historical aggregate metrics retain their documented policy and are not claimed to have been uniformly rescored. The previously unavailable historical classifier predictions and AIDE ITW-SM predictions remain unavailable.

diff --git a/README.md b/README.md
@@ -21,7 +21,7 @@ WildAIGC-Bench v1.0 contains **407 human-reviewed AI images** associated with re
 
 ![AI-image recall on WildAIGC-Bench and external benchmarks](assets/recall_overview.svg)
 
-The figure compares processed AI-image recall with the equally weighted mean recall on the seven external benchmarks evaluated by all displayed methods. These are different image collections, so the gap is a descriptive comparison, not an isolated measure of propagation loss.
+The figure compares processed AI-image recall with the equally weighted mean recall on the nine external benchmarks evaluated by all displayed methods. These are different image collections, so the gap is a descriptive comparison, not an isolated measure of propagation loss.
 
 Results reflect each model’s evaluated configuration and decision rule. Higher recall alone does not imply better overall detection performance; consult the external real-image FPR results in the [detailed tables](docs/detailed-results.md).
 
